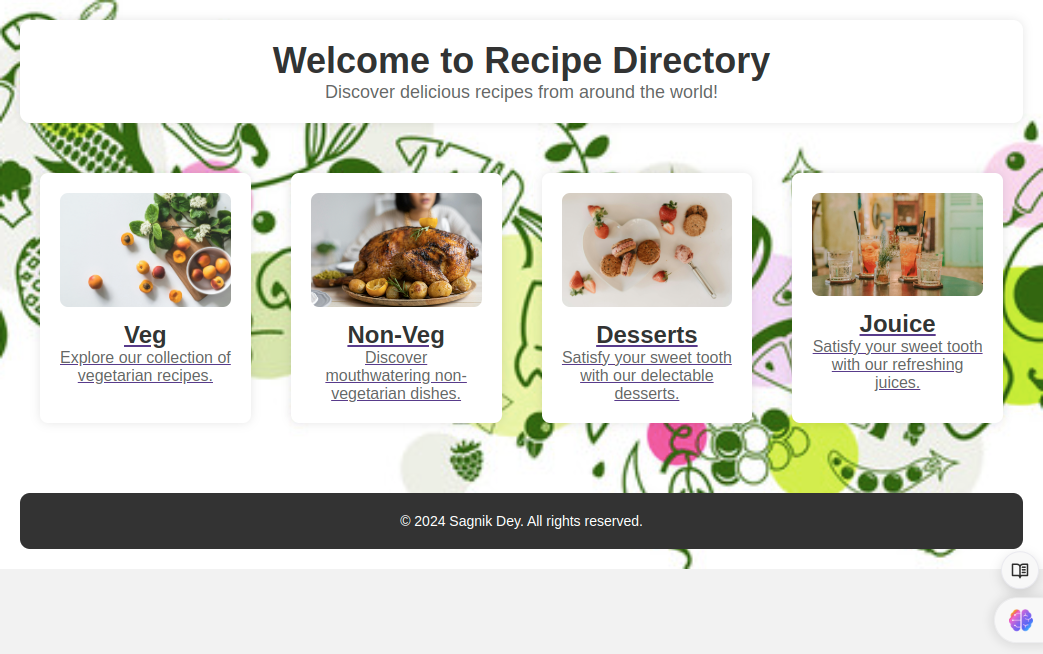
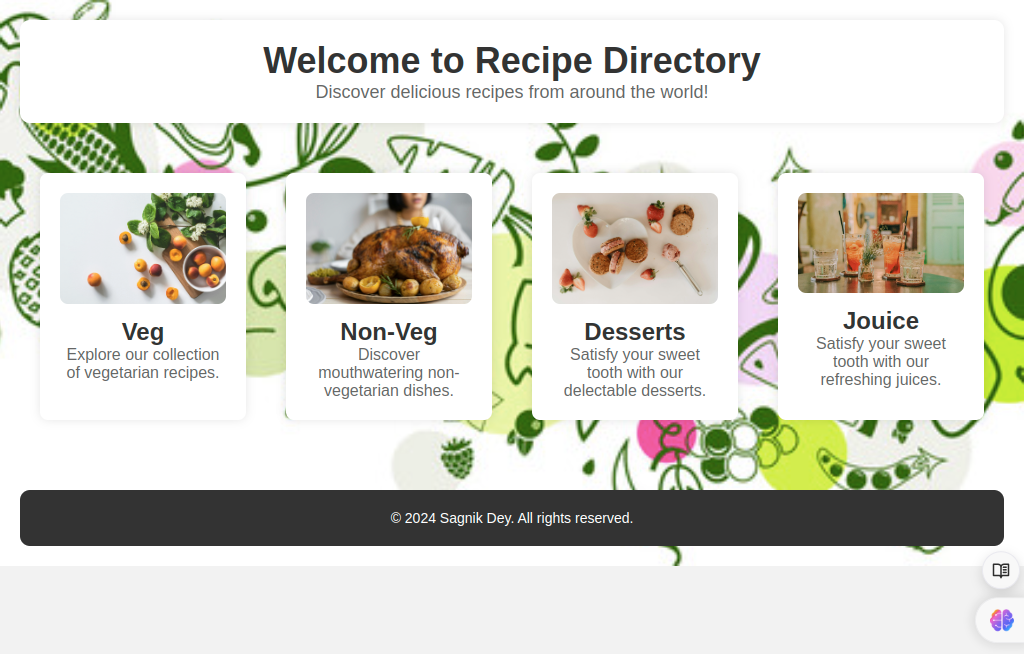
jouice-page-implement

diff --git a/src/styles.css b/src/styles.css
@@ -12,3 +12,8 @@ body {
   font-family: Arial, sans-serif;
   background-color: #f2f2f2;
 }
+
+a {
+  text-decoration: none; /* Remove underline from anchor tags */
+  color: inherit; /* Inherit text color from parent */
+}
